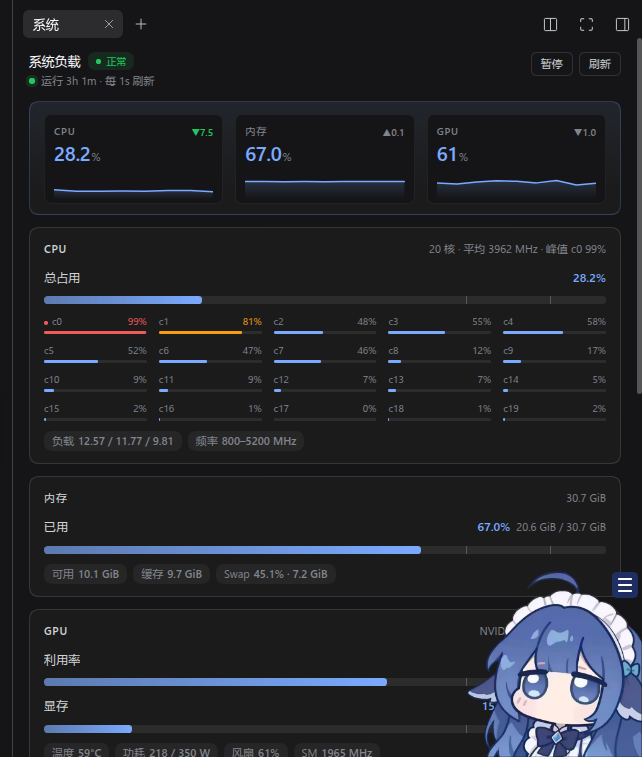
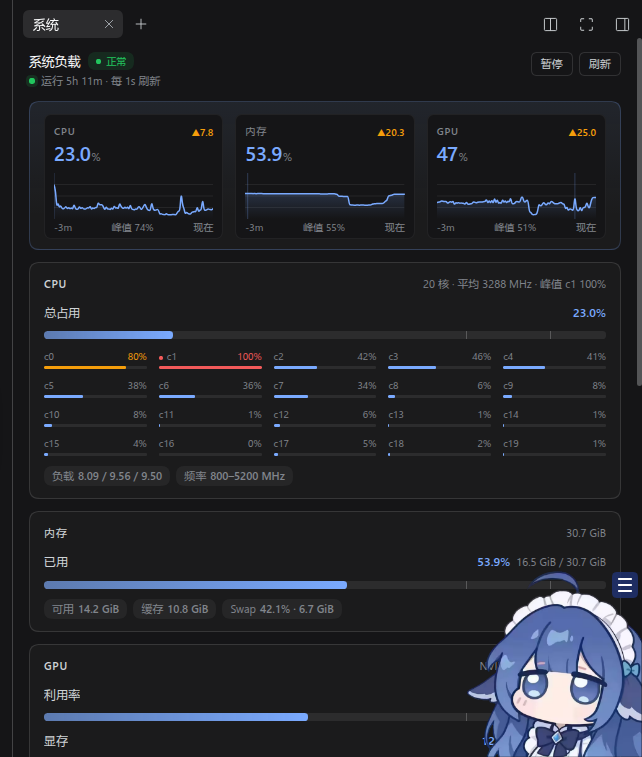
feat(chart): adaptive wide-panel charts with peak-preserving downsampling
- >=520px: 46px sparkline (56px >=900px), 25/50/75 grid, peak marker, -3m/peak/now axis
- bucket-max downsampling (120 wide / 60 narrow) and quadratic midpoint smoothing
- ResizeObserver follows sidebar width without remounting
- refresh screenshots for 0.2.4

diff --git a/lib/client.js b/lib/client.js
@@ -298,6 +298,17 @@ window.__ModuleLoader__.load({
         fontVariantNumeric: "tabular-nums",
         whiteSpace: "nowrap"
       },
+      axis: {
+        display: "flex",
+        justifyContent: "space-between",
+        gap: "4px",
+        marginTop: "2px",
+        fontSize: "10px",
+        lineHeight: "13px",
+        color: T.faint,
+        fontVariantNumeric: "tabular-nums",
+        whiteSpace: "nowrap"
+      },
       delta: {
         marginTop: "1px",
         fontSize: "10px",
@@ -437,14 +448,53 @@ window.__ModuleLoader__.load({
       );
     }
 
+    /** Human time span for the sparkline axis ("3m", "45s"). */
+    function formatSpan(samples) {
+      if (!Number.isFinite(samples) || samples <= 1) return "";
+      const minutes = Math.round(samples / 60);
+      return minutes >= 1 ? `${minutes}m` : `${Math.round(samples)}s`;
+    }
+
+    /** Keep one maximum per bucket: dense histories lose points, never peaks. */
+    function bucketMax(points, target) {
+      if (points.length <= target) return points.slice();
+      const bucket = points.length / target;
+      const out = [];
+      for (let index = 0; index < target; index += 1) {
+        const start = Math.floor(index * bucket);
+        const end = Math.min(points.length, Math.max(start + 1, Math.floor((index + 1) * bucket)));
+        let peak = -Infinity;
+        for (let cursor = start; cursor < end; cursor += 1) if (points[cursor] > peak) peak = points[cursor];
+        out.push(peak === -Infinity ? 0 : peak);
+      }
+      return out;
+    }
+
+    /** Quadratic midpoint smoothing: rounds corners without overshooting peaks. */
+    function smoothPath(coords) {
+      if (coords.length === 1) return `M${coords[0].x.toFixed(2)},${coords[0].y.toFixed(2)}`;
+      let path = `M${coords[0].x.toFixed(2)},${coords[0].y.toFixed(2)}`;
+      for (let index = 1; index < coords.length - 1; index += 1) {
+        const control = coords[index];
+        const next = coords[index + 1];
+        path += ` Q${control.x.toFixed(2)},${control.y.toFixed(2)} ${((control.x + next.x) / 2).toFixed(2)},${((control.y + next.y) / 2).toFixed(2)}`;
+      }
+      const last = coords[coords.length - 1];
+      return `${path} L${last.x.toFixed(2)},${last.y.toFixed(2)}`;
+    }
+
     /**
      * Sparkline built from the host's history ring (no chart dependency).
      * The path is drawn in a 0–100 box and stretched by the SVG viewport, so it
-     * follows any panel width without a resize observer.
+     * follows any panel width without a resize observer. On a wide panel it
+     * grows a grid, a peak marker and a time axis; on a narrow one it stays a
+     * compact inline trend.
      */
     function Sparkline(props) {
-      const points = (props.points ?? []).filter((value) => typeof value === "number" && Number.isFinite(value));
-      const height = props.height ?? 26;
+      const raw = (props.points ?? []).filter((value) => typeof value === "number" && Number.isFinite(value));
+      const wide = props.wide === true;
+      const height = props.height ?? (wide ? 46 : 26);
+      const points = bucketMax(raw, wide ? 120 : 60);
       const uid = (react.useId ? react.useId() : String(Math.random())).replace(/[^a-zA-Z0-9_-]/g, "");
       if (points.length < 2) {
         return h(
@@ -455,42 +505,78 @@ window.__ModuleLoader__.load({
       }
       const last = points[points.length - 1];
       const color = props.color ?? LEVEL_COLOR[levelOf(last)];
-      const step = 100 / (points.length - 1);
-      const path = points
-        .map((value, index) => {
-          const x = index * step;
-          const y = 100 - (Math.max(0, Math.min(100, value)) / 100) * 100;
-          return `${index === 0 ? "M" : "L"}${x.toFixed(2)},${y.toFixed(2)}`;
-        })
-        .join(" ");
+      const coords = points.map((value, index) => ({
+        x: index * (100 / (points.length - 1)),
+        y: 100 - Math.max(0, Math.min(100, value))
+      }));
+      const path = smoothPath(coords);
       const area = `${path} L100,100 L0,100 Z`;
-      return h(
-        "svg",
-        {
-          viewBox: "0 0 100 100",
-          preserveAspectRatio: "none",
-          style: { width: "100%", height: `${height}px`, display: "block" }
-        },
-        h(
-          "defs",
-          null,
-          h(
-            "linearGradient",
-            { id: `sm-${uid}`, x1: "0", y1: "0", x2: "0", y2: "1" },
-            h("stop", { offset: "0%", stopColor: color, stopOpacity: "0.18" }),
-            h("stop", { offset: "100%", stopColor: color, stopOpacity: "0" })
-          )
-        ),
-        h("path", { d: area, fill: `url(#sm-${uid})` }),
-        h("path", {
-          d: path,
-          fill: "none",
-          stroke: color,
-          strokeWidth: 1.5,
-          strokeLinejoin: "round",
-          strokeLinecap: "round",
+      let peakIndex = 0;
+      for (let index = 1; index < points.length; index += 1) if (points[index] > points[peakIndex]) peakIndex = index;
+      const peakX = peakIndex * (100 / (points.length - 1));
+      const peakValue = Math.round(points[peakIndex]);
+      const grid = wide ? [25, 50, 75].map((y) =>
+        h("line", {
+          key: `g${y}`,
+          x1: 0,
+          x2: 100,
+          y1: y,
+          y2: y,
+          stroke: T.text,
+          strokeOpacity: 0.07,
+          strokeWidth: 1,
           vectorEffect: "non-scaling-stroke"
         })
+      ) : null;
+      return h(
+        "div",
+        null,
+        h(
+          "svg",
+          {
+            viewBox: "0 0 100 100",
+            preserveAspectRatio: "none",
+            style: { width: "100%", height: `${height}px`, display: "block" }
+          },
+          grid,
+          h(
+            "defs",
+            null,
+            h(
+              "linearGradient",
+              { id: `sm-${uid}`, x1: "0", y1: "0", x2: "0", y2: "1" },
+              h("stop", { offset: "0%", stopColor: color, stopOpacity: "0.18" }),
+              h("stop", { offset: "100%", stopColor: color, stopOpacity: "0" })
+            )
+          ),
+          wide ? h("line", {
+            x1: peakX,
+            x2: peakX,
+            y1: 0,
+            y2: 100,
+            stroke: color,
+            strokeOpacity: 0.26,
+            strokeWidth: 1,
+            vectorEffect: "non-scaling-stroke"
+          }) : null,
+          h("path", { d: area, fill: `url(#sm-${uid})` }),
+          h("path", {
+            d: path,
+            fill: "none",
+            stroke: color,
+            strokeWidth: 1.5,
+            strokeLinejoin: "round",
+            strokeLinecap: "round",
+            vectorEffect: "non-scaling-stroke"
+          })
+        ),
+        wide ? h(
+          "div",
+          { style: S.axis },
+          h("span", null, `-${formatSpan(raw.length)}`),
+          h("span", null, `峰值 ${peakValue}%`),
+          h("span", null, "现在")
+        ) : null
       );
     }
 
@@ -985,6 +1071,19 @@ window.__ModuleLoader__.load({
       const [error, setError] = react.useState(null);
       const [paused, setPaused] = react.useState(false);
       const [tick, setTick] = react.useState(0);
+      const rootRef = react.useRef(null);
+      const [panelWidth, setPanelWidth] = react.useState(0);
+
+      react.useEffect(() => {
+        const element = rootRef.current;
+        if (element === null || typeof ResizeObserver === "undefined") return void 0;
+        const observer = new ResizeObserver((entries) => {
+          const width = entries[0]?.contentRect?.width;
+          if (typeof width === "number" && Number.isFinite(width)) setPanelWidth(Math.round(width));
+        });
+        observer.observe(element);
+        return () => observer.disconnect();
+      }, []);
 
       react.useEffect(() => {
         if (paused) return void 0;
@@ -1017,6 +1116,8 @@ window.__ModuleLoader__.load({
       const gpu = snapshot?.gpu ?? {};
       const gpuPercent = gpu.available ? gpu.devices?.[0]?.utilizationGpu ?? null : null;
       const history = snapshot?.history ?? [];
+      const wide = panelWidth >= 520;
+      const chartHeight = panelWidth >= 900 ? 56 : wide ? 46 : 26;
       const worstLevel = Math.max(
         levelOf(cpu.usage),
         levelOf(memory.usedPercent),
@@ -1069,7 +1170,7 @@ window.__ModuleLoader__.load({
               `${delta > 0 ? "▲" : "▼"}${Math.abs(delta).toFixed(1)}`
             )
           ),
-          h(Sparkline, { points, height: 26, empty, color })
+          h(Sparkline, { points, height: chartHeight, wide, empty, color })
         );
       };
 
@@ -1088,7 +1189,7 @@ window.__ModuleLoader__.load({
 
       return h(
         "div",
-        { style: S.root },
+        { ref: rootRef, style: S.root },
         h(
           "div",
           { style: S.header },

diff --git a/CHANGELOG.md b/CHANGELOG.md
@@ -1,5 +1,13 @@
 # Changelog
 
+## 0.2.4 — 2026-10-19
+
+- 宽面板下的趋势图：宽度 ≥520px 时三格折线增高到 46px（≥900px 为 56px），增加 25/50/75 网格、
+  峰值竖线与 `-3m / 峰值 xx% / 现在` 时间轴；<520px 保持 26px 紧凑样式。
+- 历史点按桶取最大值降采样（宽 120 / 窄 60 点），折线做二次中点平滑：数据密集时保留峰值、
+  不出现毛刺。
+- 用 `ResizeObserver` 跟随面板宽度，拖动侧栏或全屏时图表即时切换，无需重新挂载。
+
 ## 0.2.3 — 2026-10-19
 
 对齐主流监控面板（Grafana stat / btop / bottom）的表达方式：

diff --git a/README.md b/README.md
@@ -27,6 +27,7 @@ processes. Sampling is local-only (`/proc`, `/sys/class/hwmon`), served through 
 - **GPU**：利用率、显存、温度、功耗、风扇、SM 频率、显存占用进程（需要 `nvidia-smi`）
 - **温度**：`hwmon` 传感器列表（按 100°C 标尺）、风扇转速、封装功耗
 - **进程**：CPU / 内存 Top 5，每行带占用比例细条
+- 趋势图随面板宽度自适应：宽面板（≥520px）加高折线并补网格、峰值标记与时间轴，窄面板保持紧凑
 - 亮色 / 深色主题自适应；面板宽度 320–700px 自适应
 - 左侧栏底部常驻摘要小挂件，点击直达面板
 
